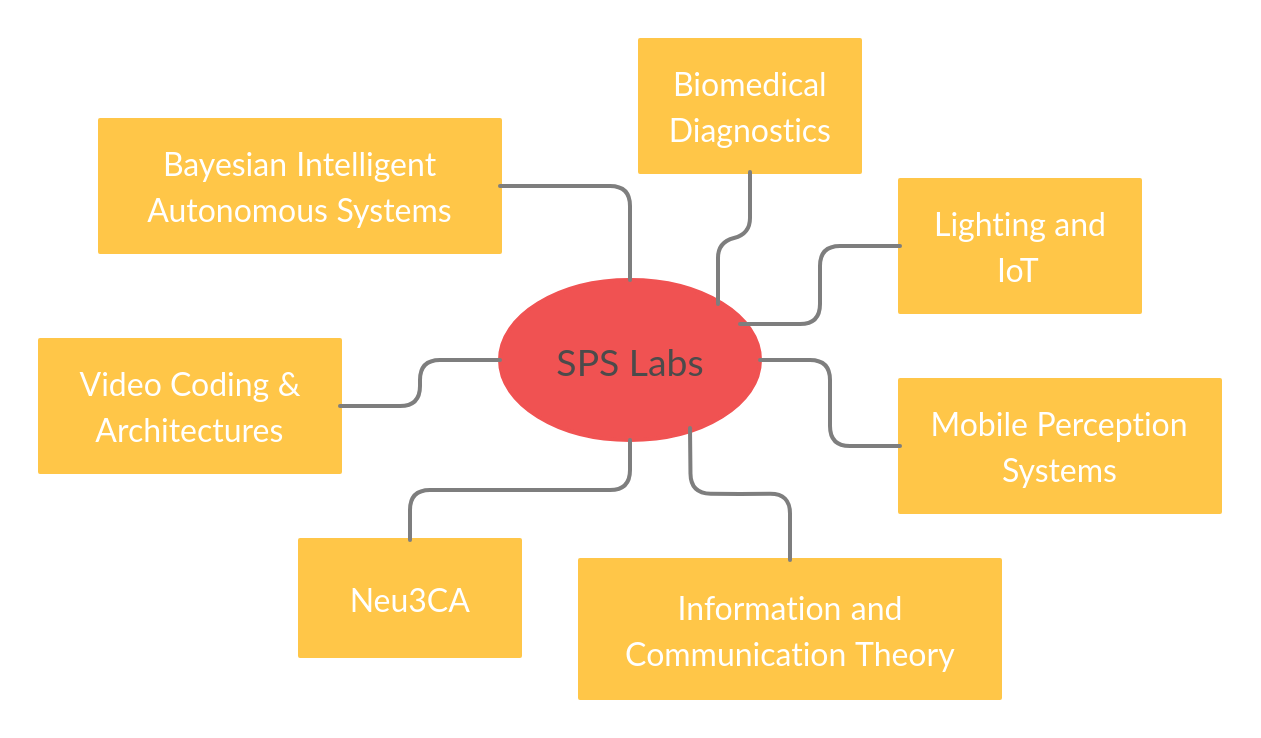
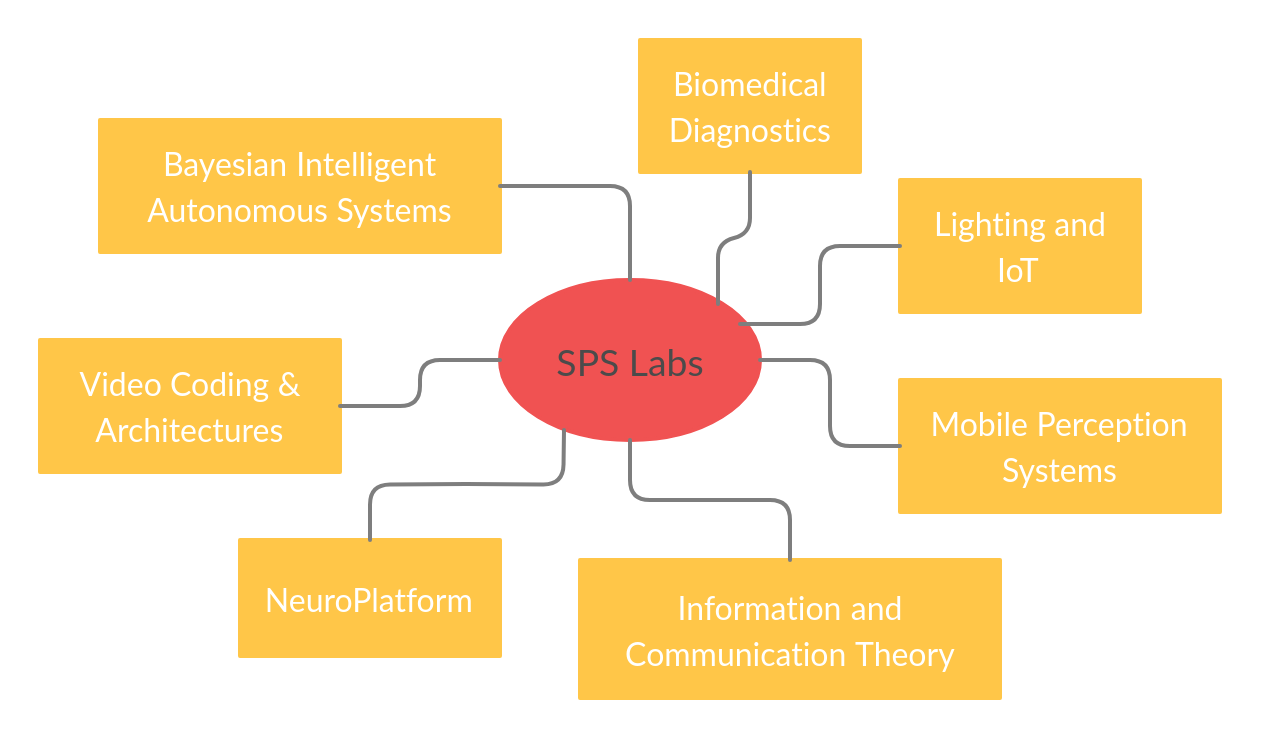
Jan feedback part1

Changed region(s): [[0.1856, 0.7168, 0.433, 0.9038], [0.2784, 0.5921, 0.6495, 0.7168]]

diff --git a/content/info/master_main.md b/content/info/master_main.md
@@ -25,7 +25,7 @@ Students can explore our different fields of research by checking the areas each
 - [Biomedical Diagnostics Lab](../master_bmd) (BM/d)
 - [Information and Communication Theory Lab](../master_ictlab) (ICT Lab)
 - [Lighting and IoT Lab](../master_lighting) (L&IoT Lab)
-- [Neu3CA](../master_neu3ca)
+- [NeuroPlatform](../master_neu3ca)
 - [Mobile Perception Systems Lab](../mpslab) (MPS)
 - [Video Coding and Architectures](../master_vca) (VCA)
 
@@ -51,7 +51,7 @@ Every lab has its own contact person whom you should contact when you have quest
 |L&IoT Lab| <a href="mailto:j.p.linnartz@tue.nl?subject=[SPS Education]%20{specify question here}"> Jean-Paul Linnartz</a>  |
 |Neu3CA   | <a href="mailto:s.zinger@tue.nl?subject=[SPS Education]%20{specify question here}"> Sveta Zinger</a>            |
 |MPS      | <a href="mailto:g.dubbelman@tue.nl?subject=[SPS Education]%20{specify question here}"> Gijs Dubbelman</a>       |
-|VCA      |<a href="mailto:s.zinger@tue.nl?subject=[SPS Education]%20{specify question here}"> Sveta Zinger</a>             |
+|VCA      |<a href="mailto:p.h.n.de.with@tue.nl?subject=[SPS Education]%20{specify question here}"> Peter de With</a>             |
 
 
 ### Graduating within the SPS group
@@ -66,18 +66,18 @@ Keep track of the quartiles these courses are offered and plan in advance by add
 In the first quartile (Q1) you need to select three core courses from the set listed <a href="https://studiegids.tue.nl/opleidingen/graduate-school/masters-programs/electrical-engineering/curriculum/core-courses/" target="_blank">here</a>.
 From this set of courses, some are labeled as either important or preferred by the SPS group.
 
-**Important**
+**Must have**
 - Statistical signal processing (5CTA0)
 - Non-linear optimization (2DME10)
 
-**Preferred**
+**Nice to have**
 - Complex Analysis (2DME30)
 - Numerical methods in Electrical Engineering (5CPA0)
 - Modeling dynamics (5CSA0)
 
 In case you wish not to follow the important courses, because you prefer to follow others, please contact the contact person of the lab you wish to graduate in to confirm whether this is a problem.
 
-Each lab might demand extra requirements on graduating in their lab. Please have a look at the different lab pages to find out what these extra requirements are. If you want to make sure that you choose elective courses that are adequate for graduating within a lab, please contact the lab contact person.
+Each lab might have extra requirements on graduating in their lab. Please have a look at the different lab pages to find out what these extra requirements are. If you want to make sure that you choose elective courses that are adequate for graduating within a lab, please contact the lab contact person.
 
 ### Master marketplace
 The information of the available Graduation Projects and Internships for the department of Electrical Engineering is arranged centrally at the <a href="https://master.ele.tue.nl/" target="_blank">Master marketplace</a>. There you can also find the latest information regarding the registration, deadlines and active internships.
@@ -93,30 +93,28 @@ Graduation projects can also be carried out in collaboration with a company. If 
 
 > Good luck during your studies!
 
-### Courses offered by our group
-| Course code   | Course name                                          | Level                     | Time Slot |
-|---------------|------------------------------------------------------|---------------------------|-----------|
-| 5XSL0         | Fundamentals of Machine Learning                     | Bachelor/Advance Elective | Q4        |
-| 5SSD0         | Bayesian Machine Learning and Information Processing | Master Specialization     | Q2        |
-| 5ARA0         | Software Engineering for Artificial Intelligence     | Master Elective           | Q3        |
+### Master courses offered by our group
 
 | Course code   | Course name                                                   | Timeslot      | Lab         | Type            |
 |---------------|---------------------------------------------------------------|---------------|-------------|-----------------|
-|    5CRA0      |   Statistical Signal Processing                               | Q1            | BMd         | Core            |
+|    5CRA0      |   Statistical Signal Processing                               | Q1            | BMd/ICTlab  | Core            |
 |    5SSD0      |   Bayesian machine learning and information processing        | Q2            | BIASlab     | Specialization  |
-|    5SSC0      |   Adaptive array signal processing                            | Q3            | BMd         | Specialization  |
+|    5SSC0      |   Adaptive array signal processing                            | Q3            | BMd         |  Specialization  |
 |    5ARA0      |   Software engineering for artificial intelligence            | Q3            | BIASlab/MPS | Elective        |
 |    3MA100     |   Physics behind medical technology: equipment and physiology | Q3            | BMd         | Elective        |
 |    5LSC0      |   Biomedical Sensing Technology                               | Q3            | BMd         | Elective        |
 |    5LSL0      |   Machine learning for signal processing                      | Q4            | BMd         | Elective        |
 |    SMPE/e     |   Physics and Physiology behind Medical Technology            | Q3            | BMd         | Elective        |
 |    5LSF0      |   Applications of Information Theory                          | Q4            | ICTlab      | Elective        |
-|    5LSK0      |   Digital wireless communication exploration lab              | Q1           | ICTlab      | Elective        |
-|    5AUA0      |   Advanced sensing using deep learning                        | Q4           | MPS         | Elective        |
-|    5LSE0      |   Techniques for video compression & analysis                 | Q3           | VCA         | Elective        |
-|    5LSH0      |   Computer vision and 3D image processing                     | Q2           | VCA         | Elective        |
-|    5LSM0      |   Convolutional neural networks for computer vision           | Q3           | VCA         | Elective        |
-|    5LSJ0      |   Image analysis for health-care technologies                 | Q3           | VCA         | Elective        |
+|    5LSK0      |   Digital wireless communication exploration lab              | Q1            | ICTlab      | Elective        |
+|    5AUA0      |   Advanced sensing using deep learning                        | Q4            | MPS         | Elective        |
+|    5LSE0      |   Techniques for video compression & analysis                 | Q3            | VCA         | Elective        |
+|    5LSH0      |   Computer vision and 3D image processing                     | Q2            | VCA         | Elective        |
+|    5LSM0      |   Convolutional neural networks for computer vision           | Q3            | VCA         | Elective        |
+|    5LSJ0      |   Image analysis for health-care technologies                 | Q3            | BMd/VCA     | Elective        |
+|    5XSL0      |   Fundamentals of Machine Learning                            | Q4            | VCA/BIASlab | Elective        |
+|    5ARA0      |   Software Engineering for Artificial Intelligence            | Q3            | BIASlab     | Elective        |
+
 
 ### General questions
 For general questions regarding education in the SPS group, you can contact the mentors of our group <a href="mailto:s.zinger@tue.nl?subject=[SPS Education]%20{specify question here}">dr. Sveta Zinger</a> or <a href="mailto:a.alvarado@tue.nl?subject=[SPS Education]%20{specify question here}">dr. Alex Alvarado</a>. For all lab-specific questions, please contact the responsible for the corresponding lab.

diff --git a/content/info/bachelor_coherent.md b/content/info/bachelor_coherent.md
@@ -4,7 +4,7 @@ type = "docs"
 # date = {{ .Date }}
 lastmod = 2020-10-08
 
-title = "Coherent packages"
+title = "Coherent packages with SPS contribution"
 
 # Add menu entry to sidebar.
 [menu.info]
@@ -36,7 +36,7 @@ In the overview below the SPS specific courses are highlighted in **boldface**.
 | Course code   | Course name                                            | Responsible SPS Lab  |
 |---------------|--------------------------------------------------------|----------------------|
 | 5XPC0         | Neurophysiology and neurostimulation                   |                      |
-| **5XSH0**         | **Cognitive neuroscience**                                 |     VCA              |
+| **5XSH0**     | **Cognitive neuroscience**                             |     BM/d               |
 | **5XSA0**     | **Introduction to medical image processing**           |     BM/d              |
 
 <br>
@@ -54,12 +54,13 @@ In the overview below the SPS specific courses are highlighted in **boldface**.
 #### Machine learning and information processing for communications
 | Course code   | Course name                                            | Responsible SPS Lab  |
 |---------------|--------------------------------------------------------|----------------------|
-| **5XSL0**     | **Fundamentals of Machine Learning**                   |   VCA                |
+| **5XSL0**     | **Fundamentals of Machine Learning**                   |   VCA/Bias Lab       |
 | **5XSE0**     | **Information Theory**                                 |   ICT Lab            |    
 | 5XTA0         | Telecommunication systems                              |                      |
 
 <br>
 
+<!--
 ### Other coherent packages
 
 #### Introduction in electrical engineering
@@ -123,3 +124,4 @@ In the overview below the SPS specific courses are highlighted in **boldface**.
 | 5XWC0         | Energy management                                      |
 | 5XWB0         | Electric drive systems                                 |
 | 5XWD0         | Project "Energy management in hybrid vehicles"         |
+-->

diff --git a/content/info/master_neu3ca.md b/content/info/master_neu3ca.md
@@ -8,7 +8,7 @@ toc = true
 
 # Add menu entry to sidebar.
 [menu.info]
-  name = "Neu3CA"
+  name = "NeuroPlatform"
   weight = 1
   parent = "Master program"
 
@@ -19,10 +19,10 @@ toc = true
   <div class="col-md-6 order-md-1 text-center text-md-left" style="vertical-align: middle; display: flex; align-items: center;">
   <div>
     <h1 class="hero-title" itemprop="headline" style="text-shadow: 0px 0px 0px rgba(0,0,0,0.0)">
-      Neu<sup>3</sup>CA
+      NPlatform
     </h1>
     <div class="hero-lead" style="text-shadow: 0px 0px 0px rgba(0,0,0,0.0)">
-      Neurodegeneration, Neuromodulation and Neuronal networks in Cognitive Aging
+       NeuroPlatform
     </div>
   </div>
   </div>
@@ -33,7 +33,7 @@ toc = true
 
 
 ## Research focus
-At Neu<sup>3</sup>CA we study **neu**rodegeneration, **neu**romodulation and **neu**ronal networks in the field of **C**ognitive **A**geing. We have a multidisciplinary team of engineers, clinical researchers and industry partners that collaborate on translational research projects, which typically involve technologies like magnetic resonance imaging of the brain, advanced simulations of brain networks, and the application of neuromodulation. We aim to advance the scientific understanding of cognition and its decline in neuropsychiatric disorders like epilepsy, stroke and depression, and through this we aim to develop new protocols and technologies for treatment
+At NeuroPlatform we study neurodegeneration, neuromodulation and neuronal networks in the field of cognitive ageing. We have a multidisciplinary team of engineers, clinical researchers and industry partners that collaborate on translational research projects, which typically involve technologies like magnetic resonance imaging of the brain, advanced simulations of brain networks, and the application of neuromodulation. We aim to advance the scientific understanding of cognition and its decline in neuropsychiatric disorders like epilepsy, stroke and depression, and through this we aim to develop new protocols and technologies for treatment
 
 <br>
 

diff --git a/content/info/bachelor_electives.md b/content/info/bachelor_electives.md
@@ -39,9 +39,10 @@ Alongside these three compulsory courses, you are free to choose several electiv
 |    5XSH0      |   Cognitive neuroscience                  | Q3            | VCA         |
 |    5XSK0      |   Data fusion and semantic interpretation | Q3            | MPS         |
 |    5XSD0      |   Medical ultrasound                      | Q4            | BM/d        |
-|    5XSL0      |   Fundamentals of machine learning        | Q4            | VCA / BIASlab|
-|    5XSA0      |   Introduction to medical image processing| Q4            | BM/d         |
+|    5XSL0      |   Fundamentals of machine learning        | Q4            | VCA/BIASlab |
+|    5XSA0      |   Introduction to medical image processing| Q4            | BM/d        |
 
+Visit <a href="https://tue.osiris-student.nl" target="_blank">OSIRIS</a> for a summary of contents and the steps to enroll these electives.
 
 <!--
 #### Bayesian Intelligent Autonomous Systems Lab

diff --git a/content/info/master_mpslab.md b/content/info/master_mpslab.md
@@ -70,7 +70,7 @@ Do you have any questions regarding the information above? Please do not hesitat
 
 <br>
 
-## Collaborative partners
+## Collaboration partners
 We are grateful to work with our collaborative partners:
 <div class="company-logo-wrapper">
   <a href="https://www.nxp.com/" target="blank_">

diff --git a/content/info/master_biaslab.md b/content/info/master_biaslab.md
@@ -65,7 +65,7 @@ Do you have any questions regarding the information above? Please do not hesitat
 
 <br>
 
-## Collaborative partners
+## Collaboration partners
 We are grateful to work with our collaborative partners:
 
 <div class="company-logo-wrapper">

diff --git a/content/info/master_bmd.md b/content/info/master_bmd.md
@@ -77,7 +77,7 @@ Do you have any questions regarding the information above? Please do not hesitat
 
 <br>
 
-## Collaborative partners
+## Collaboration partners
 We are grateful to work with our collaborative partners:
 
 <div class="company-logo-wrapper">

diff --git a/content/info/master_ictlab.md b/content/info/master_ictlab.md
@@ -86,7 +86,7 @@ Do you have any questions regarding the information above? Please do not hesitat
 
 <br>
 
-## Collaborative partners
+## Collaboration partners
 We are grateful to work with our collaborative partners:
 
 <div class="company-logo-wrapper">

diff --git a/content/info/master_vca.md b/content/info/master_vca.md
@@ -74,7 +74,7 @@ Do you have any questions regarding the information above? Please do not hesitat
 
 <br>
 
-## Collaborative partners
+## Collaboration partners
 We are grateful to work with our collaborative partners:
 
 <div class="company-logo-wrapper">
